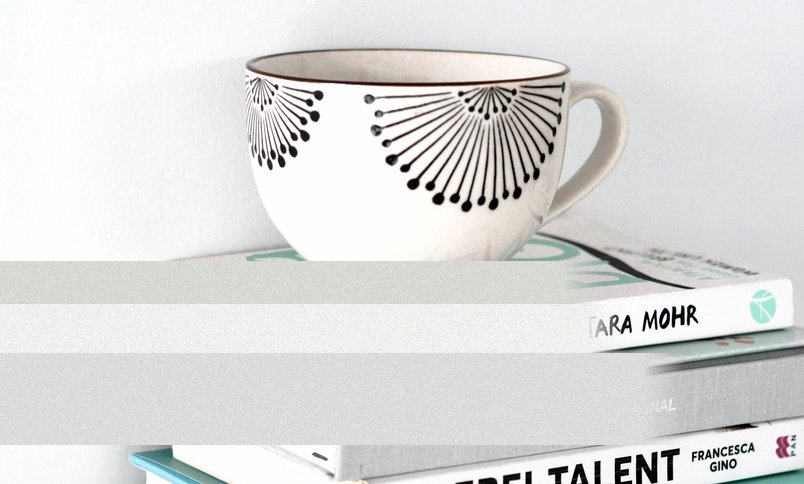
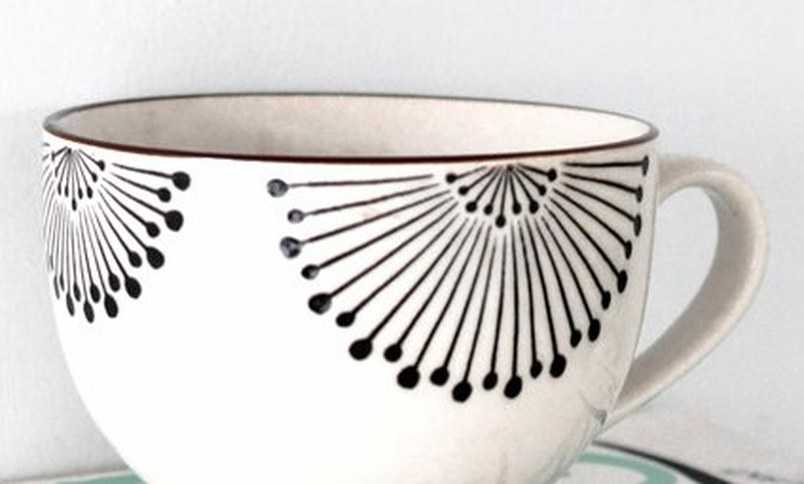
fix: 木曜の表紙画像 4.jpg の灰色の帯を差し替え、代替テキストを「白いカップ」に

diff --git a/app/page.tsx b/app/page.tsx
@@ -71,7 +71,7 @@ const MASTHEAD_ALTS = [
   "白い壁の机にノートパソコンと黄色い付箋",
   "窓辺に並ぶ鉢植えの観葉植物",
   "窓辺の机にヘッドホンとノート",
-  "積んだ本の上の白いカップ",
+  "白いカップ",
   "窓辺のキーボードとマグカップ",
   "観葉植物とコーヒーのある木の机に開いたノート",
 ] as const;
